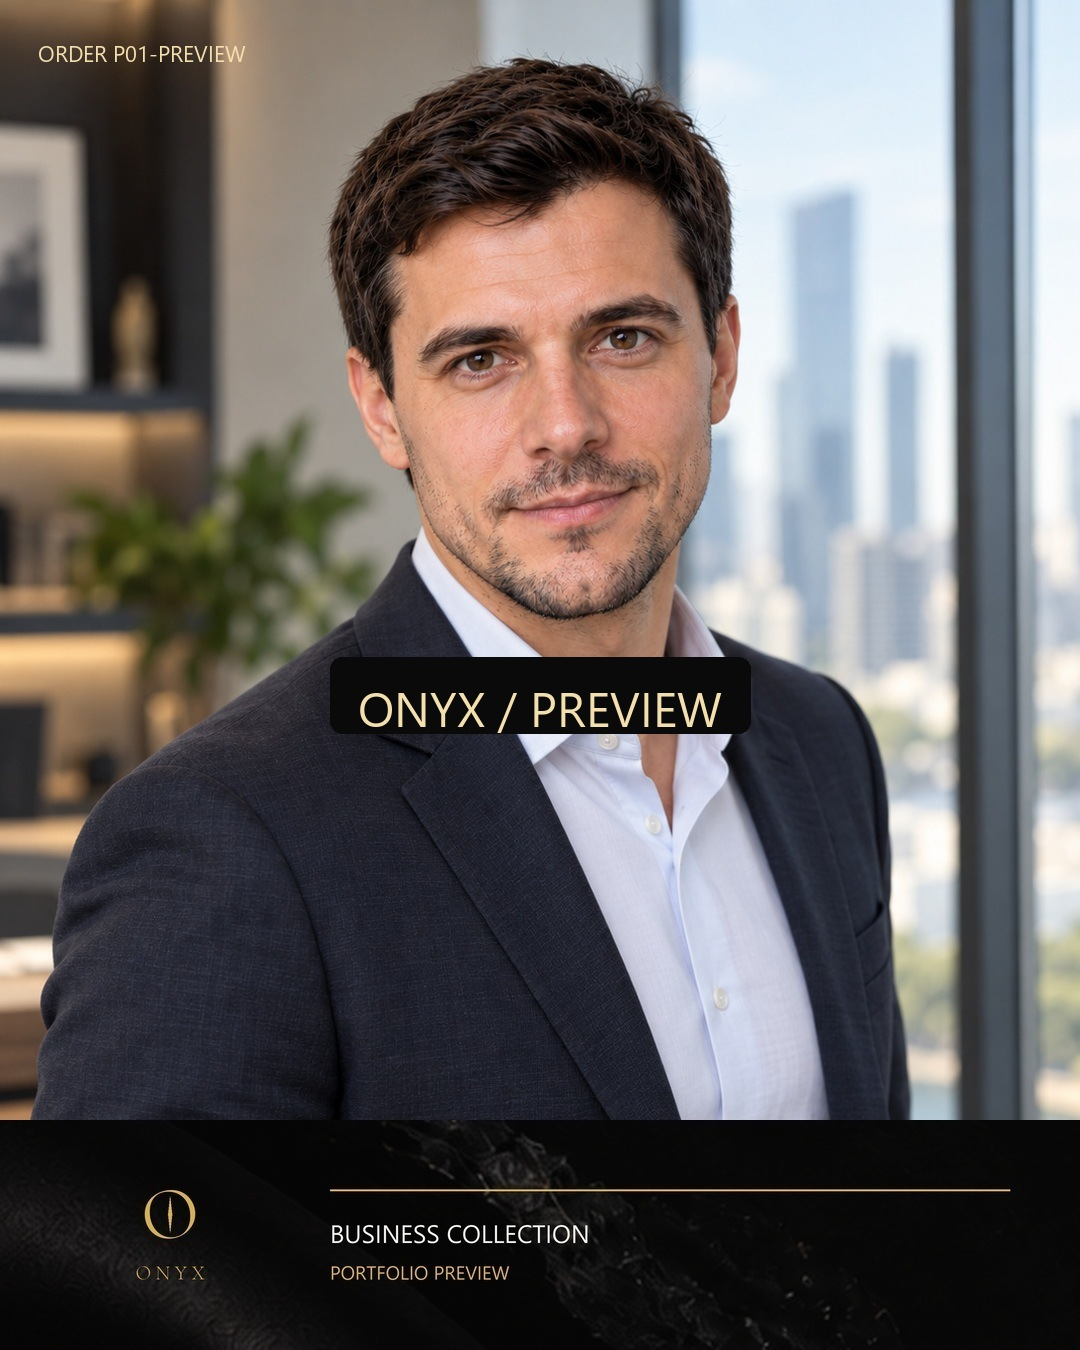
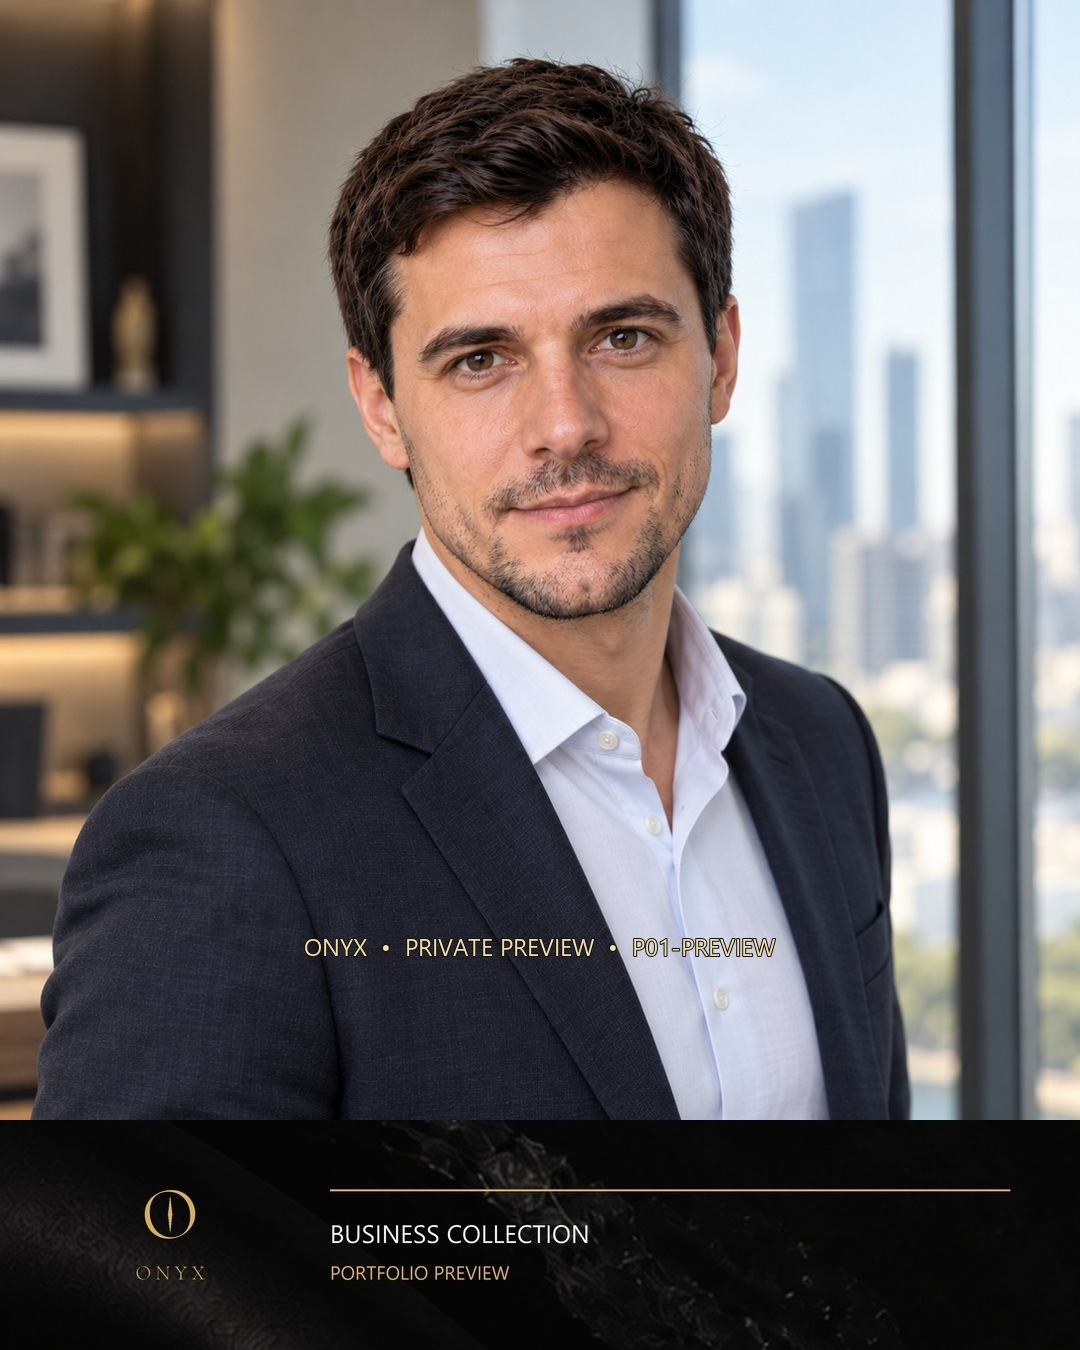
fix(delivery): use subtle transparent preview watermark

diff --git a/13 Production/Product_Standards/ONYX_PREPAYMENT_PREVIEW_STANDARD.md b/13 Production/Product_Standards/ONYX_PREPAYMENT_PREVIEW_STANDARD.md
@@ -5,7 +5,7 @@
 - Canvas: 1080 × 1350 px, full width photo, без боковых полей.
 - Нижний footer: 230 px, каменная onyx-текстура и утверждённый lockup.
 - Фото сохраняет голову и лицо; нижняя часть может уходить под footer.
-- Поверх фото размещается заметный, но аккуратный watermark `ONYX / PREVIEW`.
+- Поверх фото размещается небольшой полупрозрачный watermark `ONYX / PRIVATE PREVIEW / ORDER <ID>` без чёрной плашки и без перекрытия лица.
 - В footer или рядом с watermark указывается ID заказа.
 - Preview экспортируется в уменьшенном размере; paid delivery содержит clean JPEG и master без watermark.
 - Нельзя отправлять preview без watermark и нельзя использовать watermark, который можно легко обрезать.
